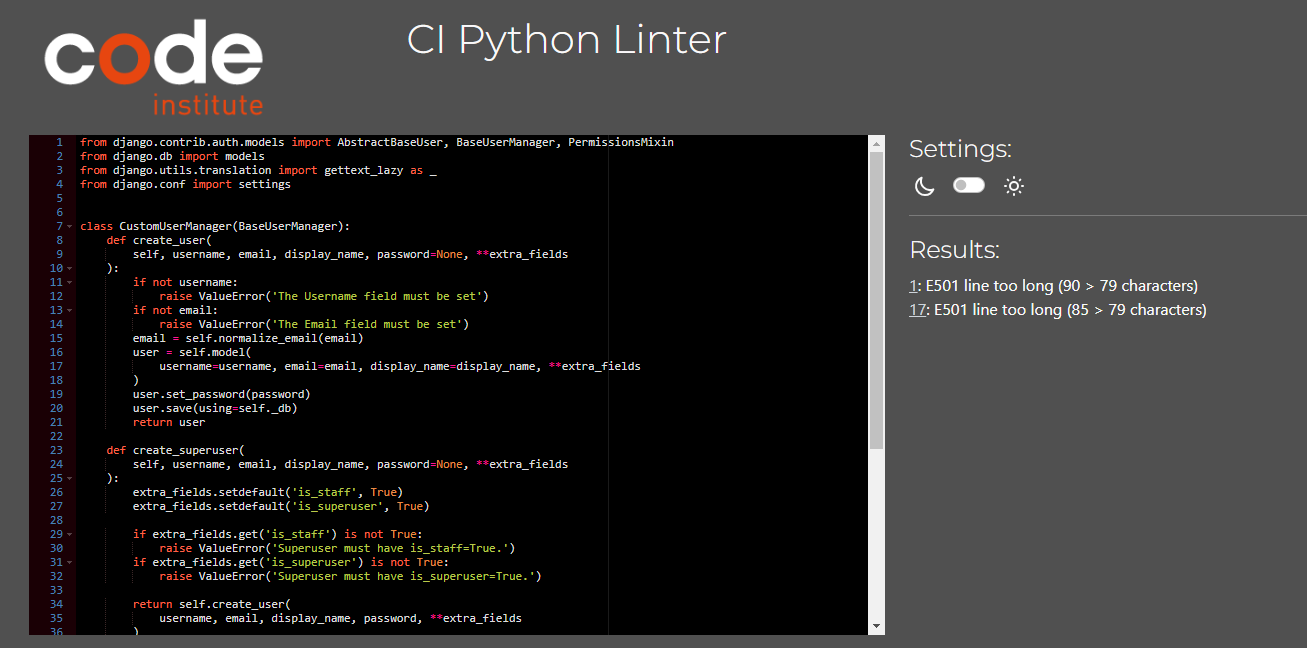
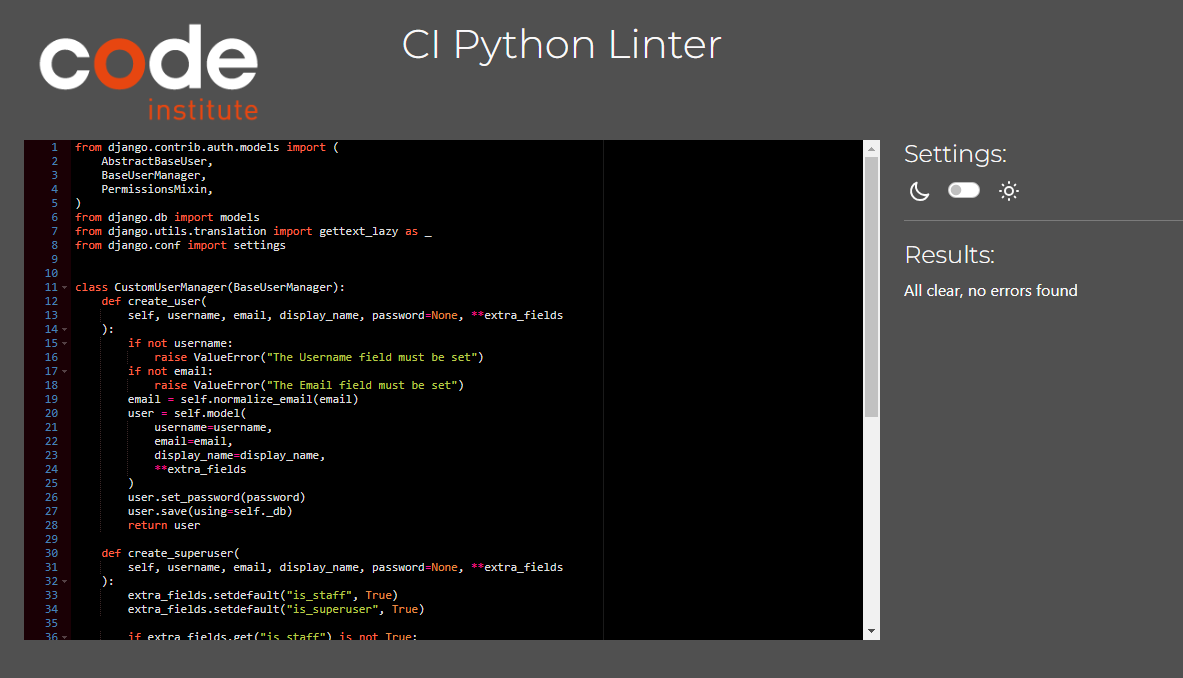
update testing.md

Changed region(s): [[0.0, 0.0309, 0.9434, 0.9877], [0.3043, 0.0309, 0.6086, 0.0926]]

diff --git a/account/models.py b/account/models.py
@@ -1,4 +1,8 @@
-from django.contrib.auth.models import AbstractBaseUser, BaseUserManager, PermissionsMixin
+from django.contrib.auth.models import (
+    AbstractBaseUser,
+    BaseUserManager,
+    PermissionsMixin,
+)
 from django.db import models
 from django.utils.translation import gettext_lazy as _
 from django.conf import settings
@@ -9,12 +13,15 @@ class CustomUserManager(BaseUserManager):
         self, username, email, display_name, password=None, **extra_fields
     ):
         if not username:
-            raise ValueError('The Username field must be set')
+            raise ValueError("The Username field must be set")
         if not email:
-            raise ValueError('The Email field must be set')
+            raise ValueError("The Email field must be set")
         email = self.normalize_email(email)
         user = self.model(
-            username=username, email=email, display_name=display_name, **extra_fields
+            username=username,
+            email=email,
+            display_name=display_name,
+            **extra_fields
         )
         user.set_password(password)
         user.save(using=self._db)
@@ -23,13 +30,13 @@ class CustomUserManager(BaseUserManager):
     def create_superuser(
         self, username, email, display_name, password=None, **extra_fields
     ):
-        extra_fields.setdefault('is_staff', True)
-        extra_fields.setdefault('is_superuser', True)
+        extra_fields.setdefault("is_staff", True)
+        extra_fields.setdefault("is_superuser", True)
 
-        if extra_fields.get('is_staff') is not True:
-            raise ValueError('Superuser must have is_staff=True.')
-        if extra_fields.get('is_superuser') is not True:
-            raise ValueError('Superuser must have is_superuser=True.')
+        if extra_fields.get("is_staff") is not True:
+            raise ValueError("Superuser must have is_staff=True.")
+        if extra_fields.get("is_superuser") is not True:
+            raise ValueError("Superuser must have is_superuser=True.")
 
         return self.create_user(
             username, email, display_name, password, **extra_fields
@@ -44,12 +51,13 @@ class CustomUser(AbstractBaseUser, PermissionsMixin):
     is_staff = models.BooleanField(default=False)
     date_joined = models.DateTimeField(auto_now_add=True)
     manifestations = models.ManyToManyField(
-        'manifest.Manifestation', related_name='users')
+        "manifest.Manifestation", related_name="users"
+    )
 
     objects = CustomUserManager()
 
-    USERNAME_FIELD = 'username'
-    REQUIRED_FIELDS = ['email', 'display_name']
+    USERNAME_FIELD = "username"
+    REQUIRED_FIELDS = ["email", "display_name"]
 
     def __str__(self):
         return self.username

diff --git a/manifest/models.py b/manifest/models.py
@@ -10,20 +10,21 @@ import itertools
 
 class Manifestation(models.Model):
     STYLE_CHOICES = [
-        ('moon', 'Moon'),
-        ('neutral', 'Neutral'),
-        ('nature', 'Nature'),
-        ('sun', 'Sun'),
-        ('stars', 'Stars'),
-        ('cosmic', 'Cosmic'),
-        ('witchy', 'Witchy'),
-        ('hearts', 'Hearts'),
-        ('antique', 'Antique'),
-        ('pastel', 'Pastel'),
+        ("moon", "Moon"),
+        ("neutral", "Neutral"),
+        ("nature", "Nature"),
+        ("sun", "Sun"),
+        ("stars", "Stars"),
+        ("cosmic", "Cosmic"),
+        ("witchy", "Witchy"),
+        ("hearts", "Hearts"),
+        ("antique", "Antique"),
+        ("pastel", "Pastel"),
     ]
 
     owner = models.ForeignKey(
-        CustomUser, on_delete=models.CASCADE, null=True, blank=True)
+        CustomUser, on_delete=models.CASCADE, null=True, blank=True
+    )
     title = models.CharField(max_length=100)
     description = models.TextField(max_length=500)
     style_choice = models.CharField(max_length=10, choices=STYLE_CHOICES)
@@ -54,7 +55,7 @@ class Manifestation(models.Model):
             for i in itertools.count(1):
                 if not Manifestation.objects.filter(slug=self.slug).exists():
                     break
-                self.slug = f'{original_slug}-{i}'
+                self.slug = f"{original_slug}-{i}"
         super().save(*args, **kwargs)
 
     def next_charge_time(self):

diff --git a/testing.md b/testing.md
@@ -90,7 +90,6 @@
 - ![PEP8 screenshot](static/manifest/images/manifest-forms.pyPEP8.png)
 - account/models.py
 - ![PEP8 screenshot](static/manifest/images/account-models.pyPEP8.png)
-- Lines 1 and 17 were considered too long by PEP8. These lines cannot be shortened in a way that improves readability. Even though error exists, the app still functions. 
 - manifest/models.py
 - ![PEP8 screenshot](static/manifest/images/manifest-models.pyPEP8.png)
 - settings.py
